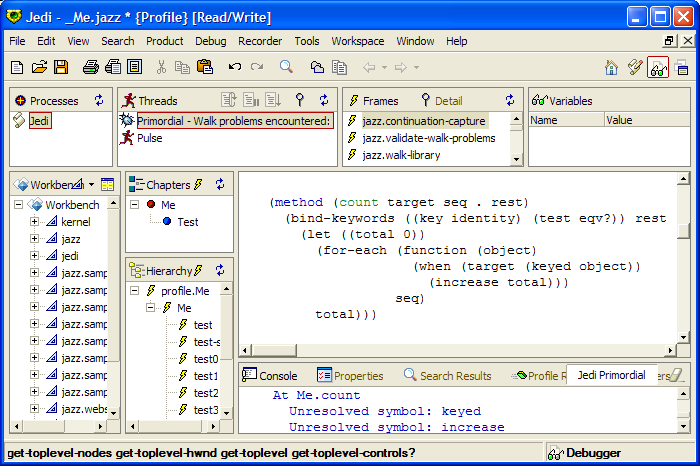
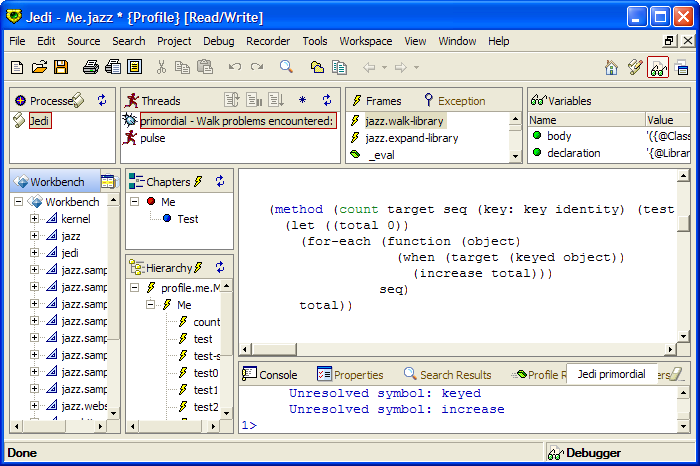
Updated the 'Executing code' tutorial

diff --git a/lib/jazz.website/content/tutorials.htm b/lib/jazz.website/content/tutorials.htm
@@ -505,10 +505,10 @@ Clicking the debugger's red icon will bring you to the debugger's workspace.    
       </span>
       <span>
         <p></p>
-        <b>Exception Detail</b>
+        <b>Exception</b>
         <p></p>
-If you want more detail on the exception, select the "Detail" palette just next to the "Frames" one.         <p></p>
-        <img src="images/tutorials/unresolved_detail.png"/>
+If you want more detail on the exception, select the "Exception" palette just next to the "Frames" one. For walk problems, selecting a row will highlight the source code locations in red.         <p></p>
+        <img src="images/tutorials/unresolved_exception.png"/>
         <p></p>
 Now that you understand the error and how to correct it, the first thing you should do is return the thread in error to the previous repl level. Do this by right-clicking the thread in error (here the "Primordial" thread) in the "Threads" palette and selecting "Resume event loop".         <p></p>
         <img src="images/tutorials/unresolved_resume.png"/>

diff --git a/lib/jazz.website/content/jazz.htm b/lib/jazz.website/content/jazz.htm
@@ -2767,14 +2767,14 @@ message-box    <a name="c-interface"></a>
       <tr>
         <td></td>
         <td>
-<a href="#syntax_forms">
+<a href="#c-interface.syntax">
             <code>Syntax</code>
           </a></td>
       </tr>
       <tr>
         <td></td>
         <td>
-<a href="#c-interface.syntax">
+<a href="#syntax_forms">
             <code>Syntax</code>
           </a></td>
       </tr>
